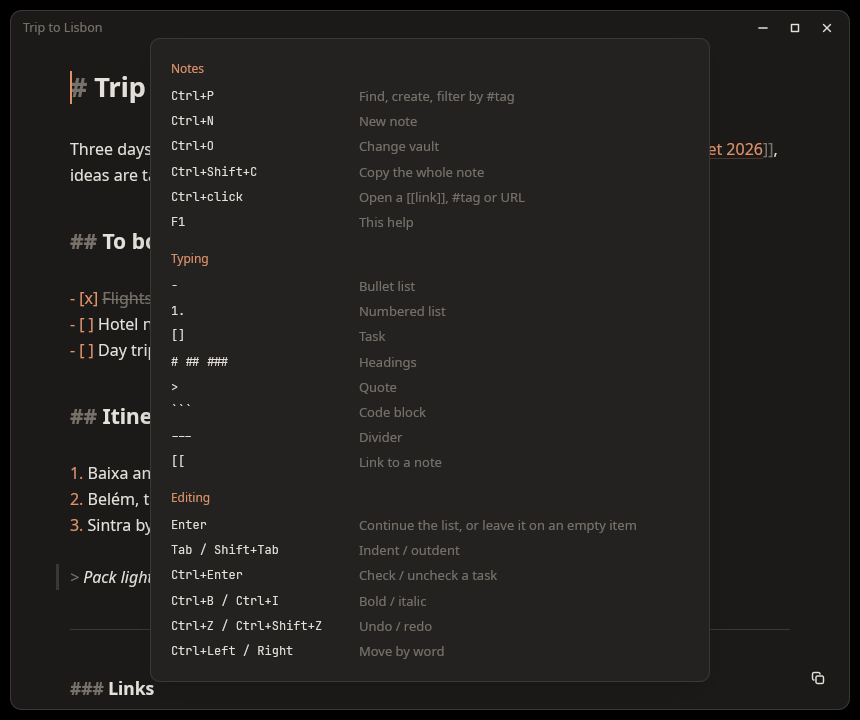
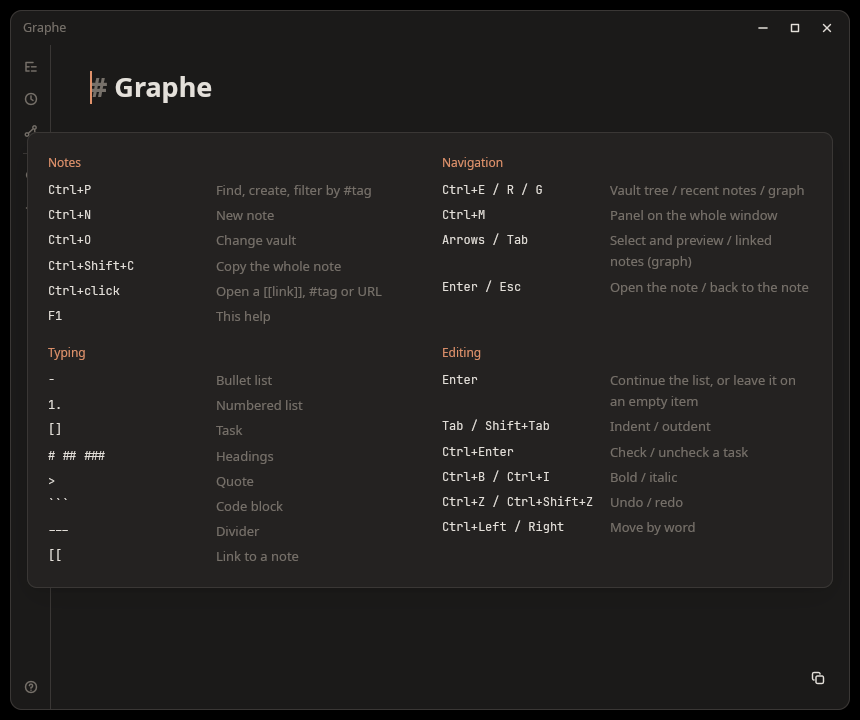
docs: document the navigation panel, in the app and in the README
The shortcut panel gains a Navigation section and lays its sections out
in two columns, so that it still fits in the default window.

diff --git a/src/main.rs b/src/main.rs
@@ -565,6 +565,15 @@ fn help_sections() -> Vec<(&'static str, Vec<(String, &'static str)>)> {
             ],
         ),
         (
+            "Navigation",
+            vec![
+                (format!("{} / R / G", m("E")), tr("Vault tree / recent notes / graph", "Arbre du coffre / notes récentes / graphe")),
+                (m("M"), tr("Panel on the whole window", "Panneau en pleine fenêtre")),
+                (tr("Arrows / Tab", "Flèches / Tab").into(), tr("Select and preview / linked notes (graph)", "Sélectionner en aperçu / notes liées (graphe)")),
+                (tr("Enter / Esc", "Entrée / Échap").into(), tr("Open the note / back to the note", "Ouvrir la note / revenir à la note")),
+            ],
+        ),
+        (
             tr("Typing", "À la frappe"),
             vec![
                 ("- ".into(), tr("Bullet list", "Liste à puces")),
@@ -596,6 +605,7 @@ impl Shell {
         let t = self.theme;
         let sections = help_sections().into_iter().map(|(title, rows)| {
             div()
+                .w(px(370.))
                 .flex()
                 .flex_col()
                 .gap_1()
@@ -604,14 +614,15 @@ impl Shell {
                     div()
                         .flex()
                         .gap_3()
-                        .child(div().w(px(176.)).flex_none().font_family(mono()).text_size(px(12.)).child(keys))
-                        .child(div().text_color(t.dim).child(effect))
+                        .child(div().w(px(156.)).flex_none().font_family(mono()).text_size(px(12.)).child(keys))
+                        .child(div().flex_1().min_w_0().text_color(t.dim).child(effect))
                 }))
         });
         div()
             .absolute()
             .inset_0()
             .occlude()
+            .p_4()
             .flex()
             .items_center()
             .justify_center()
@@ -621,12 +632,17 @@ impl Shell {
             )
             .child(
                 div()
-                    .w(px(560.))
+                    .id("help")
+                    // Deux colonnes si la fenêtre est assez large, une seule sinon.
+                    .w(px(812.))
                     .max_w_full()
+                    .max_h_full()
+                    .overflow_y_scroll()
                     .p_5()
                     .flex()
-                    .flex_col()
-                    .gap_4()
+                    .flex_wrap()
+                    .gap_x_6()
+                    .gap_y_4()
                     .bg(t.panel)
                     .border_1()
                     .border_color(t.border)

diff --git a/README.md b/README.md
@@ -4,7 +4,7 @@ A fast, minimal note-taking app. Notes are plain Markdown files in a folder you 
 
 ![encre, light and dark](docs/screenshots/encre.png)
 
-[Features](#features) · [Install](#install) · [First run](#first-run) · [Using encre](#using-encre) · [Markdown](#markdown) · [Notes and vault](#notes-and-vault) · [Compatibility](#compatibility) · [Troubleshooting](#troubleshooting) · [How it works](#how-it-works) · [Development](#development)
+[Features](#features) · [Install](#install) · [First run](#first-run) · [Using encre](#using-encre) · [Navigation](#navigation) · [Markdown](#markdown) · [Notes and vault](#notes-and-vault) · [Compatibility](#compatibility) · [Troubleshooting](#troubleshooting) · [How it works](#how-it-works) · [Development](#development)
 
 ## Features
 
@@ -13,7 +13,8 @@ A fast, minimal note-taking app. Notes are plain Markdown files in a folder you 
 - **Styled as you type**: headings grow, bold and italic render, markers stay visible but dimmed. The file on disk is always plain Markdown.
 - **Lists that continue themselves**: `- `, `1. ` and `[] ` start a list, Enter continues it, numbering stays in order.
 - **Links between notes**: `[[` suggests your notes; a link to a note that does not exist creates it. `#tags` filter the note list.
-- **Keyboard first**: one palette to find, create and switch notes. No sidebar, no toolbar.
+- **Three ways around your notes**: the vault as a tree, the notes you opened last, and a graph of the links between them, in a panel that folds down to a thin rail of icons.
+- **Keyboard first**: one palette to find, create and switch notes, and a shortcut for every view. No toolbar.
 - **No save button**: notes are written to disk as you type, and named after their first line.
 - Light and dark, following your system. English and French, following the system language.
 
@@ -140,6 +141,8 @@ On macOS, read `Cmd` for `Ctrl`, and `Alt` for `Ctrl` when moving by word.
 |---|---|
 | `Ctrl + P` | palette: find a note, create one, filter by `#tag` |
 | `Ctrl + N` | new note |
+| `Ctrl + E`, `Ctrl + R`, `Ctrl + G` | [navigation panel](#navigation): vault tree, recent notes, graph |
+| `Ctrl + M` | navigation panel on the whole window, and back |
 | `Ctrl + O` | change vault |
 | `Ctrl + Shift + C` | copy the whole note (also the icon at the bottom right) |
 | `Ctrl + click` | open a `[[link]]`, a `#tag` or a URL |
@@ -160,6 +163,37 @@ In the palette, type to search; `Enter` opens the selected note. If no note has 
 | `Ctrl + A` `C` `X` `V` | select all, copy, cut, paste |
 
 ![The shortcut panel](docs/screenshots/help.png)
+
+## Navigation
+
+![The graph next to a note](docs/screenshots/navigation.png)
+
+A rail of icons stays on the left of the window. It opens a panel beside the note, in one of three views:
+
+| View | Key | Shows |
+|---|---|---|
+| Tree | `Ctrl + E` | the vault and its folders; the open note is highlighted |
+| Recent | `Ctrl + R` | every note, from the most to the least recently opened |
+| Graph | `Ctrl + G` | one dot per note, one line per `[[link]]` between two notes |
+
+The same keys work in the three views:
+
+| Key | Action |
+|---|---|
+| `↑` `↓`, or a click | select a note and preview it beside the panel |
+| `Enter`, or a double click | open the note and start typing |
+| `←` `→` | tree: fold or unfold a folder; graph: move to the nearest note on that side |
+| `Tab` | graph: walk through the notes linked to the selected one |
+| `Esc` | back to the note |
+
+A previewed note only counts as opened, and moves to the top of the recent list, once you click or type in it.
+
+- **Sizes**: drag the line between the panel and the note. Dragged all the way left, the panel folds back to its rail; all the way right, it takes the whole window. Double-click the line for the default width. `Ctrl + M`, or the arrows button at the top of the panel, also switches to the whole window and back.
+- **Folding**: pressing the key of the view on display, or clicking its icon, folds the panel. The rail stays, with the three views, search, new note and help one click away.
+- **Graph**: drag the background to move around and scroll to zoom. Pointing at a note lights up the notes it is linked to. The target button fits the whole graph in view. With the graph on the whole window, a click only selects: `Enter` or a double click brings the note back.
+- **New note from the tree**: with the tree on display, `Ctrl + N` creates the note in the folder of the selected line.
+
+encre reopens with the panel as you left it.
 
 ## Markdown
 
@@ -183,11 +217,11 @@ Tables, images and footnotes are kept as you typed them, without special renderi
 
 ## Notes and vault
 
-- A vault is an ordinary folder. Notes in subfolders are found too; hidden folders (`.git`, `.obsidian`…) are ignored. New notes are created at the top of the vault.
+- A vault is an ordinary folder. Notes in subfolders are found too; hidden folders (`.git`, `.obsidian`…) are ignored. New notes are created at the top of the vault, or in the selected folder when the tree is on display.
 - A note is saved shortly after you stop typing, and when you switch note or quit. Saving is atomic: a crash never leaves a half-written file.
 - A new note is named after its first line: `# Groceries` becomes `Groceries.md`, and the file is renamed when you change that line. A note whose file name did not already match its first line (typical of an existing vault) is never renamed.
 - `[[Groceries]]` finds the note by file name, in any subfolder, ignoring case.
-- The vault and the last open note are remembered in a small text file:
+- The vault and the notes you opened, most recent first, are remembered in a small text file (and the navigation panel in a file named `layout` next to it):
 
   | System | File |
   |---|---|
@@ -219,14 +253,16 @@ Tables, images and footnotes are kept as you typed them, without special renderi
 
 **I edited a note in another program while it was open in encre.** encre does not watch files: it keeps its own version and writes it back on the next edit. Switch to another note and back to reload it from disk.
 
-**Limits.** No way to delete a note from the app yet (delete the file). Renaming a note does not update the `[[links]]` pointing to it. No full-text search: the palette matches note names and tags.
+**Limits.** No way to delete, move or rename a file from the app yet, nor to create a folder (use your file manager). Renaming a note does not update the `[[links]]` pointing to it. No full-text search: the palette matches note names and tags.
 
 ## How it works
 
 - **Editor**: a custom text element drawn directly with GPUI's text system. Each line is classified (heading, list item, quote, code…) and shaped with its own size and style runs; the text itself is never transformed.
 - **Typing rules** (`src/markdown.rs`): pure functions decide what Enter and Tab do on a line and renumber the list around the cursor. They are unit-tested without any UI.
 - **Vault** (`src/vault.rs`): the note list and its tags are indexed off the UI thread when the vault opens, then kept up to date on each save.
-- **Palette**: substring matches first, ranked by position, then subsequence matches; ties keep the most recently edited note first.
+- **Palette**: substring matches first, ranked by position, then subsequence matches; ties keep the most recently opened note first.
+- **Navigation** (`src/nav.rs`): the tree is rebuilt from the paths of the indexed notes, and only the visible rows are drawn. A folder that holds no note is not shown.
+- **Graph** (`src/graph.rs`): a force-directed layout computed off the UI thread when the links change, then drawn as plain lines and discs. Links to notes that do not exist yet are left out.
 - **Startup**: the last note is read before the first frame, so the window appears with its content. Icons are embedded in the binary.
 - **Window**: on Linux encre draws its own title bar, shadow and resize edges (client-side decorations); on macOS and Windows the system does.
 
@@ -238,7 +274,7 @@ cargo run --release       # what gets installed
 make test                 # cargo test --locked
 ```
 
-The tests include an end-to-end run driven by simulated keystrokes (typing, lists, autosave, palette, links), using GPUI's test platform: no display needed.
+The tests include an end-to-end run driven by simulated keystrokes (typing, lists, autosave, palette, links, navigation panel), using GPUI's test platform: no display needed.
 
 `Cargo.lock` started as a copy of the one GPUI 0.2.2 was published with: newer versions of some of its dependencies no longer build together. Update dependencies one at a time.
 
